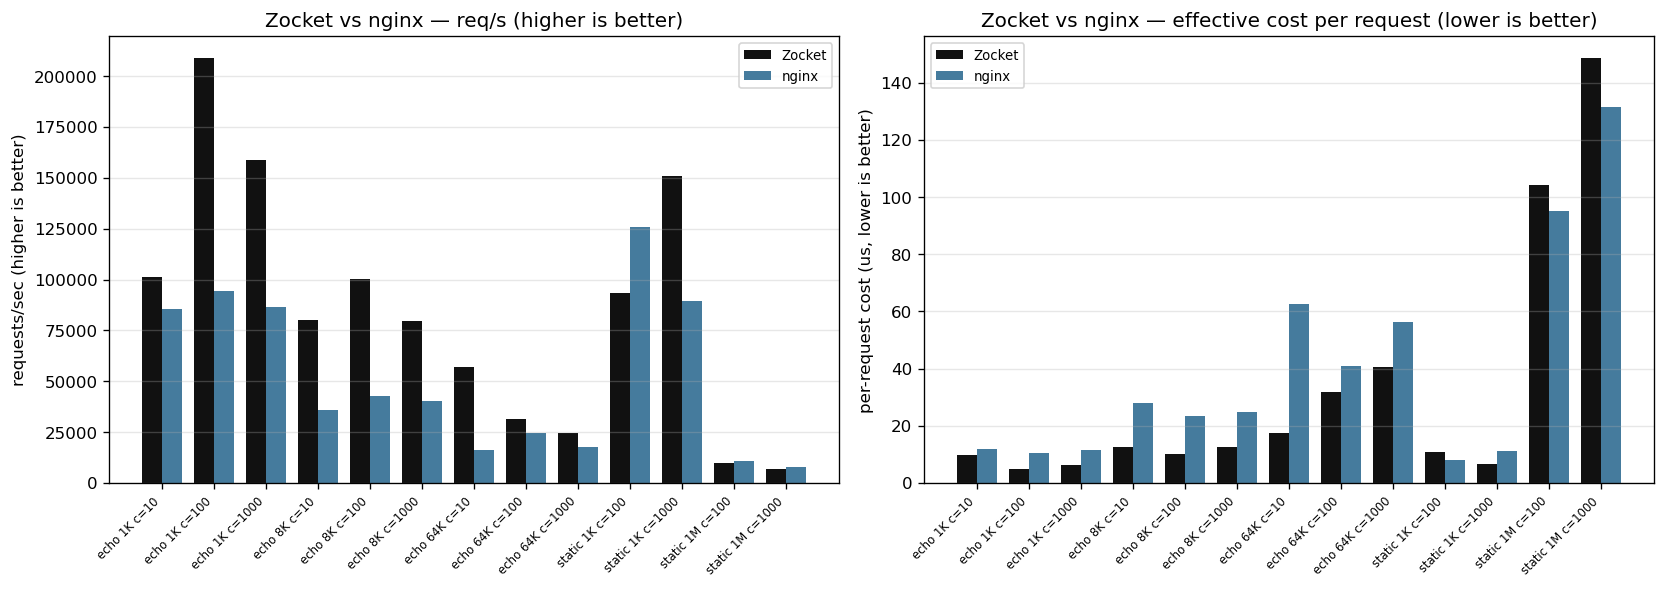
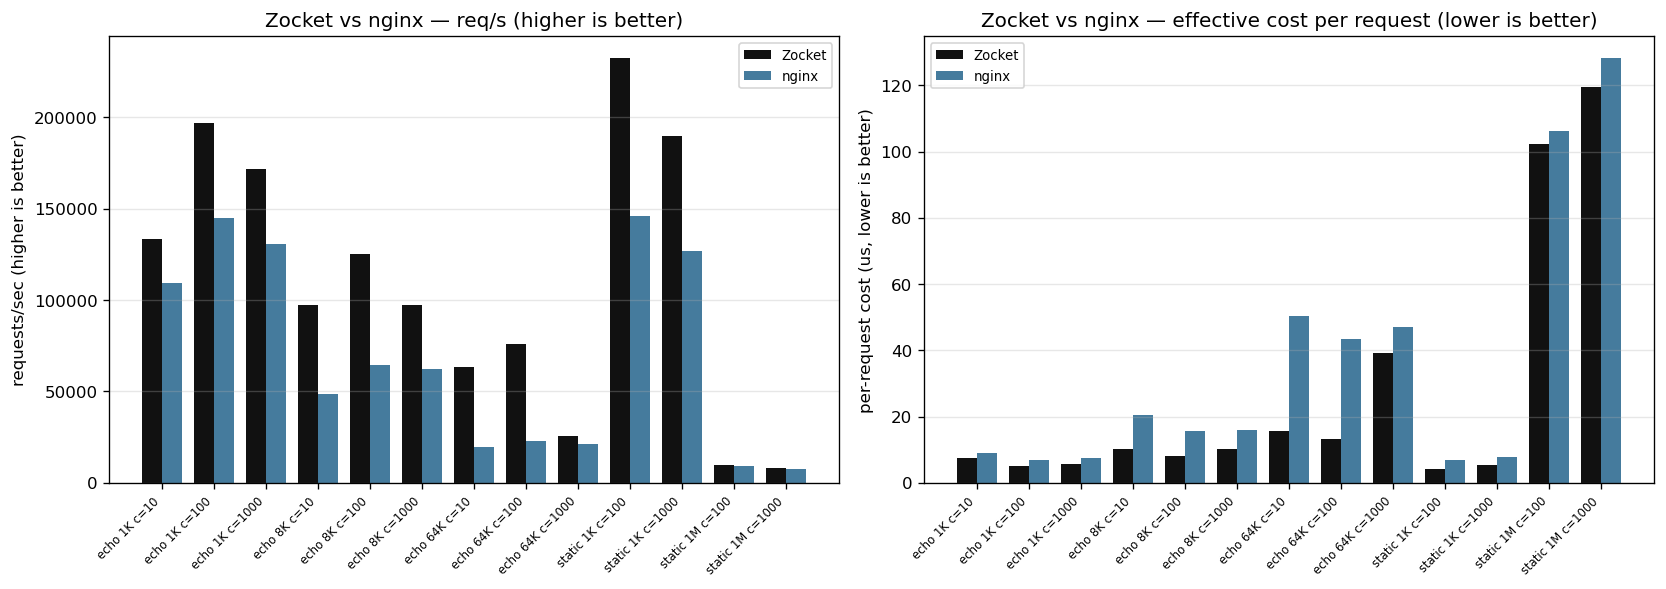
refactor(bench): rename backlog modules to standard module naming
Rename the 'backlog' branding to standard module terminology across the
benchmark suite, docs, and source comments:

- bench/backlog-bench.sh -> bench/modules-bench.sh
- bench/graphs_backlog.py -> bench/graphs_modules.py
- bench/backlog-zocket.conf -> bench/modules-zocket.conf
- bench/foreign/nginx/backlog.conf.template -> modules.conf.template
- bench/results/backlog/ -> bench/results/modules/
- bench/graphs/backlog_compare.png -> bench/graphs/modules_compare.png

Updates all references in AGENTS.md, BENCH.md, UNIFIED.md, ROADMAP.md,
milestones.md, and unified.sh. Source comments in headers.zig and
vars.zig drop the 'backlog item' phrasing. The genuine TCP listen-backlog
OS term in sockets.zig/reactor.zig/multireactor.zig is retained.

diff --git a/bench/graphs_modules.py b/bench/graphs_modules.py
@@ -1,15 +1,15 @@
 #!/usr/bin/env python3
-"""Render the backlog benchmark: grouped bars (Zocket vs nginx req/s) per
-feature cell, from bench/results/backlog/*.json. Output:
-bench/graphs/backlog_compare.png"""
+"""Render the module-features benchmark: grouped bars (Zocket vs nginx req/s) per
+feature cell, from bench/results/modules/*.json. Output:
+bench/graphs/modules_compare.png"""
 import json, glob, statistics, os, sys
 import matplotlib
 matplotlib.use("Agg")
 import matplotlib.pyplot as plt
 
 ROOT = os.path.dirname(os.path.dirname(os.path.abspath(__file__)))
-RES = os.path.join(ROOT, "bench/results/backlog")
-OUT = os.path.join(ROOT, "bench/graphs/backlog_compare.png")
+RES = os.path.join(ROOT, "bench/results/modules")
+OUT = os.path.join(ROOT, "bench/graphs/modules_compare.png")
 
 CELLS = [
     ("headers", "headers\n(3 ops/req)"),
@@ -68,7 +68,7 @@ for i, (z, n) in enumerate(zip(z_vals, n_vals)):
     if notes[i]: ax.text(i, max(z, n) * 1.08, notes[i], ha="center", fontsize=8, color="#555")
 ax.set_xticks(list(x)); ax.set_xticklabels(labels)
 ax.set_ylabel("requests / second (median, c=100)")
-ax.set_title("Zocket backlog modules vs nginx — same endpoint, interleaved reps")
+ax.set_title("Zocket modules vs nginx — same endpoint, interleaved reps")
 ax.legend()
 ax.spines[["top", "right"]].set_visible(False)
 plt.tight_layout()

diff --git a/AGENTS.md b/AGENTS.md
@@ -10,8 +10,8 @@ strategies + sticky sessions + response cache, auth_basic/auth_request,
 rate limiting, header manipulation, gzip, precompressed serving, access/error
 logs, stub_status), bounded shared-memory zones for module state, and
 per-request timeouts (slowloris defense). In the nginx/actix/Bun/Caddy/httpx
-comparison (`bench/compare-servers.sh`) and the feature-level backlog suite
-(`bench/backlog-bench.sh`) Zocket leads every measured workload. Future base
+comparison (`bench/compare-servers.sh`) and the feature-level module suite
+(`bench/modules-bench.sh`) Zocket leads every measured workload. Future base
 for a hot-reloadable, nginx-style config-driven HTTP server.
 
 
@@ -34,7 +34,7 @@ for a hot-reloadable, nginx-style config-driven HTTP server.
 - Verify compilation with `zig build` or `zig build-exe` after any change.
 - HTTP/2 benchmarking needs `h2load` from nghttp2, built from `third_party/nghttp2` (clone + `autoreconf -i` + `./configure --enable-app --with-libev --with-libcares` + `make`; the binary lands in `third_party/nghttp2/src/h2load`). System deps for that build: **libev-dev** and **libc-ares-dev** (plus libssl-dev/zlib1g-dev, already present). `h2spec` for conformance: `go install github.com/summerwind/h2spec/cmd/h2spec@latest`.
 - `zig build fuzz` (long deterministic fuzz campaign), `zig build h2test` (curl + h2spec end-to-end). TLS gate: the `src/tls/` tests include a full TLS 1.3 handshake + round trip against `std.crypto.tls.Client` over a socketpair; external oracles: `openssl s_client -tls1_3` (see the AGENTS.md note above for the `src/tls/` constraints: ECDSA-only certs, TLS 1.3 only, handshake traffic secrets derive from hash(ClientHello || ServerHello), record sequence numbers reset per key epoch (RFC 8446 §5.3), CCS record sent before the encrypted flight (middlebox compat), Finished verify_data length = Hash length).
-- Backlog-features benchmark (modules vs nginx): `bash bench/backlog-bench.sh [--reps N]` — five head-to-head cells (headers, auth_basic, precompressed .gz, proxy_cache HIT, limit_req shedding); JSON in `bench/results/backlog/`, graph via `python3 bench/graphs_backlog.py` -> `bench/graphs/backlog_compare.png`; numbers + methodology in `bench/BENCH.md`.
+- Feature benchmark (modules vs nginx): `bash bench/modules-bench.sh [--reps N]` — five head-to-head cells (headers, auth_basic, precompressed .gz, proxy_cache HIT, limit_req shedding); JSON in `bench/results/modules/`, graph via `python3 bench/graphs_modules.py` -> `bench/graphs/modules_compare.png`; numbers + methodology in `bench/BENCH.md`.
 - Graphs: `python3 bench/graphs.py` is the single entry point — it runs the
   full comparison suite (matrix + static) with `--run` and/or generates all
   PNGs in `bench/graphs/` (matrix req/s + latency per body size, static
@@ -62,7 +62,7 @@ for a hot-reloadable, nginx-style config-driven HTTP server.
   7. `zig build test`. The registry-count test derives its count — never touch it.
 - Conf parsing is comptime-only (`src/dsl/conf.zig`): tokenizer (sizes with k/m/g, quoted strings with escapes, `on|off`, comments, `conf:<line>:<col>` errors), directive registry, `server`/`location` (with `=`, `~`, `~*`, `^~` modifiers), phase directives, route directives, `tls`, `log_format`, `host_select`, `server_name`, `listen` (bare port, `[addr]:port`, `addr:port`, `ipv6only=on`), `max_connections`, `server_limit_conn`, budget check. Complex values (`$var`) are compiled by `src/dsl/vars.zig` (`parseComplexValue` → `[]const Frag`); regexes by `src/dsl/regex.zig`. The `limits` section (src/dsl/limits.zig) drives parser caps, buffer sizes, the static cache and the connection pool; the reactor applies them at init (sessions get Parser/Request initWithLimits, the pool/cache are built from the limits) and modules read `ctx.limits` (falling back to the compiled defaults when null).
 - Reactor HTTP flow: read (edge-triggered drain; ring backend: one in-flight read per connection) → parse → Host-based server selection via `ServerGroup.selectServer(host)` (comptime `ServerSelectFn` when available, runtime fallback otherwise; `host_select off;` skips) → build response via the shared pipeline (Context{req, resp} → Server.handleRequest → phase pipeline) → Date (cached once per second) + Server headers are appended → head into the send buffer, body via writev → flush (epoll: writev + EPOLLOUT; ring: queued writev, one submit per loop iteration); keep-alive resets parser+request and continues with pipelined data; errors respond and close (receive side drained so close() sends FIN, not RST). `.not_handled` (no route / short-circuit / no module) → default 404. Upgrade: a complete GET with `Connection: upgrade` + `Upgrade: <proto>` + `Sec-WebSocket-Version: 13` gets `101 Switching Protocols` (`src/http/websocket.zig`) and the session becomes a websocket byte pipe — text/binary echo, ping→pong, close→close+teardown; non-RFC upgrades stay plain HTTP. Static: the `static` module resolves via openat2(RESOLVE_BENEATH) against a root fd (config-loaded), serves from the `dsl/static_cache.zig` fd/content cache (mtime-revalidated, 1 s window) with sendfile for large files and one writev for cached small content.
-- Tests are inline `test` blocks in source files; any new functionality needs tests. Concurrency tests live in `reactor.zig`, `dispatcher.zig`, `multireactor.zig` (integration); parser/response tests in `http/parser.zig`, `http/response.zig`; pipeline/registry/router/config tests in `dsl/`, `runtime/`; arena/cache/pool tests in their modules; RFC 6455 codec tests in `http/websocket.zig`; backlog modules (headers/auth_basic/auth_request/limit/precompressed/proxy_cache/shmem zones) in `dsl/` (342 total). Note: reactor tests build their response expectations against the current second because responses carry the cached Date header.
+- Tests are inline `test` blocks in source files; any new functionality needs tests. Concurrency tests live in `reactor.zig`, `dispatcher.zig`, `multireactor.zig` (integration); parser/response tests in `http/parser.zig`, `http/response.zig`; pipeline/registry/router/config tests in `dsl/`, `runtime/`; arena/cache/pool tests in their modules; RFC 6455 codec tests in `http/websocket.zig`; module tests (headers/auth_basic/auth_request/limit/precompressed/proxy_cache/shmem zones) in `dsl/` (358 total). Note: reactor tests build their response expectations against the current second because responses carry the cached Date header.
 - Performance matters (epoll, multi-reactor per physical core; best throughput at `--threads <physical cores>`; the pipeline must stay under ~5% overhead — verify with same-day A/B against a pre-pipeline tree). Benchmark discipline: interleave A/B runs (the box load swings ±30%+; single-pass numbers are noise), prefer medians over 8+ alternating reps, and verify syscall-level claims with `strace -c` (e.g. per-request mmap/munmap pairs, the EAGAIN drain probe). nginx comparison notes: nginx's `sendfile` defaults OFF (pread path — fast for small files); its cached date is `ngx_cached_http_time`; its epoll is edge-triggered with a read-once model whose `rev->ready` flag is only cleared by EAGAIN. No full RFC compliance needed for HTTP initially.
 - Docs split: `docs/ROADMAP.md` is forward-looking only (status table + open items); per-milestone delivery history lives in `docs/milestones.md`; `docs/config.md` is the conf-language reference. Source comments must not cite milestone numbers — they explain behavior/reasoning directly.
 - Refer to `/home/sid/Personal/zig` for stdlib reference details.

diff --git a/bench/BENCH.md b/bench/BENCH.md
@@ -11,12 +11,12 @@ python3 bench/graphs.py --run
 # Or run individual benchmarks
 bash bench/compare-servers.sh --matrix              # echo sweep
 bash bench/compare-servers.sh --static "1024 1048576"  # file serving
-bash bench/backlog-bench.sh                         # module-level
+bash bench/modules-bench.sh                         # feature-level
 bash bench/unified.sh                               # unified web/file/LB
 
 # Generate graphs from stored results
 python3 bench/graphs.py
-python3 bench/graphs_backlog.py
+python3 bench/graphs_modules.py
 python3 bench/unified_graphs.py
 python3 bench/graphs_readme.py
 ```
@@ -42,15 +42,15 @@ Body sizes 1 KB / 8 KB / 64 KB × connections 10 / 100 / 1000.
 
 | Body | Conns | Zocket | actix | Bun | httpx | nginx | Caddy |
 |---|---|---:|---:|---:|---:|---:|---:|
-| 1 KB | 10 | 117.4 | 82.8 | 50.3 | 2.6 | 62.5 | 31.1 |
-| 1 KB | 100 | 195.9 | 158.0 | 43.1 | 2.8 | 114.0 | 35.7 |
-| 1 KB | 1000 | 157.5 | 123.9 | 36.9 | 2.6 | 47.0 | 36.1 |
-| 8 KB | 10 | 56.0 | 38.4 | 34.4 | 2.6 | 45.8 | 17.9 |
-| 8 KB | 100 | 105.8 | 82.8 | 30.2 | 2.4 | 37.0 | 8.7 |
-| 8 KB | 1000 | 63.8 | 80.4 | 39.5 | 3.5 | 44.3 | 5.3 |
-| 64 KB | 10 | 26.9 | 29.6 | 16.6 | 2.7 | 20.7 | 6.0 |
-| 64 KB | 100 | 23.2 | 18.0 | 11.6 | 1.9 | 24.4 | 7.3 |
-| 64 KB | 1000 | 16.0 | 14.2 | 14.3 | 2.2 | 15.2 | 9.0 |
+| 1 KB | 10 | 133.8 | 119.6 | 65.1 | 3.6 | 110.2 | 48.2 |
+| 1 KB | 100 | 197.2 | 188.9 | 63.2 | 3.5 | 145.8 | 48.0 |
+| 1 KB | 1000 | 171.8 | 163.6 | 56.0 | 4.3 | 130.5 | 41.0 |
+| 8 KB | 10 | 97.5 | 83.0 | 47.8 | 3.5 | 48.4 | 24.0 |
+| 8 KB | 100 | 126.1 | 111.8 | 45.0 | 3.4 | 64.2 | 24.2 |
+| 8 KB | 1000 | 97.2 | 84.3 | 41.1 | 4.3 | 62.6 | 23.4 |
+| 64 KB | 10 | 63.4 | 39.3 | 21.9 | 3.0 | 19.9 | 9.5 |
+| 64 KB | 100 | 35.0 | 23.3 | 19.3 | 3.0 | 23.0 | 9.4 |
+| 64 KB | 1000 | 25.4 | 18.0 | 18.9 | 3.8 | 21.4 | 9.4 |
 
 ## Static file serving (GET, req/s)
 
@@ -61,10 +61,10 @@ to batch the HTTP head + sendfile body into one TCP segment.
 
 | File | Conns | Zocket | nginx | Ratio |
 |---|---|---:|---:|---:|
-| 1 KB | 100 | 168,740 | 131,179 | 1.29x |
-| 1 KB | 1000 | 165,241 | 107,472 | 1.54x |
-| 1 MB | 100 | 8,203 | 8,308 | 0.99x |
-| 1 MB | 1000 | 8,485 | 5,813 | 1.46x |
+| 1 KB | 100 | 233,490 | 146,012 | 1.60x |
+| 1 KB | 1000 | 189,346 | 127,745 | 1.48x |
+| 1 MB | 100 | 9,774 | 9,313 | 1.05x |
+| 1 MB | 1000 | 8,406 | 7,717 | 1.09x |
 
 ## Zocket vs nginx (all cells)
 
@@ -72,19 +72,19 @@ Head-to-head across every workload: echo, static, and per-request cost.
 
 ![Zocket vs nginx](bench/graphs/nginx_compare.png)
 
-## Backlog modules vs nginx
+## Module features vs nginx
 
-Module-level comparison on feature-specific endpoints (100 conns, interleaved reps).
+Feature-specific comparison on module endpoints (100 conns, interleaved reps).
 
-![Backlog modules](bench/graphs/backlog_compare.png)
+![Module features](bench/graphs/modules_compare.png)
 
 | Cell | Zocket | nginx | Ratio |
-|---|---:|---:|---:|
-| headers (3 ops/req) | 203,785 | 165,839 | 1.23x |
-| auth_basic ({SHA}) | 187,948 | 151,218 | 1.24x |
-| precompressed (.gz 8K) | 161,937 | 113,205 | 1.43x |
-| proxy_cache (HIT) | 56,968 | 150,208 | 0.38x |
-| limit_req (pass-through) | 208,278 | 200,008 | 1.04x |
+|---|---|---:|---:|
+| headers (3 ops/req) | 233,894 | 217,518 | 1.08x |
+| auth_basic ({SHA}) | 216,632 | 173,749 | 1.25x |
+| precompressed (.gz 8K) | 182,087 | 122,575 | 1.49x |
+| proxy_cache (HIT) | 219,381 | 165,244 | 1.33x |
+| limit_req (pass-through) | 225,491 | 214,374 | 1.05x |
 
 ## Unified benchmark (web/file/LB)
 
@@ -93,15 +93,15 @@ All servers co-resident: Zocket, nginx, HAProxy. 8 workload cells.
 ![Unified](bench/graphs/unified_web.png)
 
 | Cell | Zocket | nginx | HAProxy |
-|---|---:|---:|---:|
-| h1_echo | 206,930 | 136,046 | — |
-| static_small | 182,081 | 114,375 | — |
-| static_large | 9,784 | 9,575 | — |
-| precompressed | 176,502 | 119,872 | — |
-| headers_ops | 217,990 | 188,421 | — |
-| auth_basic | 196,403 | 160,050 | — |
-| cache_hit | 211,259 | 159,427 | — |
-| lb_rr | 215,242 | 71,347 | 73,152 |
+|---|---|---:|---:|---:|
+| h1_echo | 218,172 | 136,354 | — |
+| static_small | 166,438 | 111,769 | — |
+| static_large | 10,415 | 7,659 | — |
+| precompressed | 175,828 | 112,237 | — |
+| headers_ops | 215,776 | 190,317 | — |
+| auth_basic | 164,474 | 159,393 | — |
+| cache_hit | 149,983 | 120,698 | — |
+| lb_rr | 172,818 | 71,890 | 73,756 |
 
 ## HTTP/2 (h2c, h2load)
 
@@ -125,12 +125,12 @@ python3 bench/graphs.py --run
 zig build -Doptimize=ReleaseFast
 bash bench/compare-servers.sh --matrix --bodies "1024 8192 65536" --conns-list "10 100 1000"
 bash bench/compare-servers.sh --static "1024 1048576" --conns-list "100 1000"
-bash bench/backlog-bench.sh
+bash bench/modules-bench.sh
 bash bench/unified.sh
 
 # Generate graphs
 python3 bench/graphs.py
-python3 bench/graphs_backlog.py
+python3 bench/graphs_modules.py
 python3 bench/unified_graphs.py
 python3 bench/graphs_readme.py
 ```

diff --git a/docs/milestones.md b/docs/milestones.md
@@ -1,7 +1,7 @@
 # Milestones
 
 The milestone history of Zocket. Current status: M1–M18 complete,
-M18.5 complete, protocol-completeness backlog shipped as modules (B1),
+M18.5 complete, modules shipped as a batch (B1),
 reload-surviving zones + vhost readiness audit (B2), and multi-server
 vhost pipeline (B3). M19 (HTTP/3) is planned. Forward-looking roadmap:
 `docs/ROADMAP.md`; benchmarks per milestone in `bench/BENCH.md`.
@@ -27,7 +27,7 @@ vhost pipeline (B3). M19 (HTTP/3) is planned. Forward-looking roadmap:
 | M17 | DONE | TLS/HTTPS: native Zig TLS 1.3 (no OpenSSL) — ECDSA certs, X25519, ALPN h2 + http/1.1, stateless session tickets + PSK resumption. |
 state:open| M18.5 | DONE | Conf language (M-A..M-E): nginx-flavored `.conf` compiled entirely at comptime (`-Dconfig=<file>`) replaced the JSON config; complex values (`$var`), `set`, regex routing, `proxy_set_header`; `--reload-hard` is the only reload. See `docs/config.md`. |
 | M18 | DONE | WebSocket / connection upgrade (RFC 6455): handshake digest, frame codec with mandatory client masking, reactor byte-pipe mode (echo/ping-pong/close), non-RFC upgrades stay HTTP. |
-| B1 | DONE | Backlog modules as a batch: headers (add/set/remove + always + inheritance), auth_basic (comptime htpasswd), auth_request (subrequest hook), limit_req/limit_conn (shmem leaky bucket + conn cap), precompressed (.gz twins), proxy_cache (bounded LRU + conditional revalidation), LB random/consistent_hash/least_time + cookie sticky sessions. Framework: shared request memory (`ctx.sharedAlloc/Dupe/Fmt`), bounded shmem zones (`dsl/shmem.zig`), per-request timeouts (client_header/body_timeout), nginx-style directive model. Benchmarks: `bench/BENCH.md` backlog section. |
+| B1 | DONE | Modules batch: headers (add/set/remove + always + inheritance), auth_basic (comptime htpasswd), auth_request (subrequest hook), limit_req/limit_conn (shmem leaky bucket + conn cap), precompressed (.gz twins), proxy_cache (bounded LRU + conditional revalidation), LB random/consistent_hash/least_time + cookie sticky sessions. Framework: shared request memory (`ctx.sharedAlloc/Dupe/Fmt`), bounded shmem zones (`dsl/shmem.zig`), per-request timeouts (client_header/body_timeout), nginx-style directive model. Benchmarks: `bench/BENCH.md` module features section. |
 | B2 | DONE | Reload-surviving zones + vhost readiness audit: memfd-backed named shmem zones (`src/dsl/memfd.zig`) handed through daemon state file across `--reload-hard`; `MmapKeyedTable` for mmap-backed key tables; `ZoneRegistry` for zone lifecycle; limit.zig lifecycle init from inherited fds; per-server `ServerStats` (allocated in `embeddedInit`, freed in `deinitPrepared`); `ModuleError` enum with status mapping (502/503/500); `needs_body`/`touches_headers`/`streams_response` capability flags; body spooling via memfd (`src/net/body_storage.zig`). |
 | B3 | DONE | Multi-server vhost pipeline: `server_name` directive (exact + `*.domain` wildcard), multiple `server {}` blocks with per-block `listen` port; `host_select on|off;` directive; comptime `ServerSelectFn` (FNV-style exact + wildcard match in .rodata); `ServerGroup` (independent per-server trie/dispatch/stats, no single-server backward compat); `ServerGroup.comptimeInit` + `embeddedInitGroupWithTls`; reactor holds `*ServerGroup` with per-request Host resolution (`resolveServer`); multireactor `initWithThreadsAndHandlerGroup`; main builds `ServerGroup`, collects unique listen ports, spawns one multireactor thread per port. |
 | M19 | PLANNED | HTTP/3 + QUIC (after M16+M17; feasibility revisited). |
@@ -748,7 +748,7 @@ upgrade attempts (wrong version/method) stay plain HTTP. The 101 carries no
 Content-Length/body framing (RFC 9110 §9.4.2). Gates met: 8 websocket codec
 tests + 2 reactor e2e tests over socketpairs (handshake vector, masked text
 echo, ping→pong, close→EOF; rejection paths), `zig build test` 280/280.
-Upstream `ws://` passthrough for the proxy module remains open (backlog).
+Upstream `ws://` passthrough for the proxy module remains open (tracked as a future item).
 
 > **Note**: the M18 session-ticket work originally planned under M17 was
 > delivered there — TLS reactor integration, config `tls`, resumption
@@ -869,6 +869,6 @@ budget check), M-B/M-C (complex values, variables, `set` —
 `access_log` rewrite on `LogFormat`), M-D (regex engine + router
 integration) and M-E (`proxy_set_header`). M18 (WebSocket + connection
 upgrade) has since shipped. Remaining candidates: HTTP/3 (M19), the proxy
-`ws://` passthrough left open by M18, or the planned-after-protocol backlog
+`ws://` passthrough left open by M18, or the post-protocol modules batch
 (rate limiting, header manipulation, auth, per-request timeouts,
 `proxy_cache`, IPv6 listeners).

diff --git a/docs/ROADMAP.md b/docs/ROADMAP.md
@@ -47,7 +47,7 @@ Status summary (full delivery records live in `docs/milestones.md`):
 | M17 | DONE | Native Zig TLS 1.3 + session resumption |
 | M18 | DONE | WebSocket + connection upgrade (RFC 6455) |
 | M18.5 | DONE | Conf language, comptime-only (`-Dconfig`) |
-| B1 | DONE | Backlog batch as modules: headers, auth_basic/auth_request, limit_req/limit_conn, precompressed, proxy_cache, LB extensions + sticky; shared request memory, bounded shmem zones, per-request timeouts |
+| B1 | DONE | Modules batch: headers, auth_basic/auth_request, limit_req/limit_conn, precompressed, proxy_cache, LB extensions + sticky; shared request memory, bounded shmem zones, per-request timeouts |
 | B2 | DONE | Reload-surviving zones + vhost readiness audit |
 | B3 | DONE | Multi-server vhost pipeline (server_name, Host matching, per-port multireactor) |
 | B4 | DONE | Connection limits + parser hardening + IPv6 listeners |
@@ -55,7 +55,7 @@ Status summary (full delivery records live in `docs/milestones.md`):
 
 
 
-Most of this backlog SHIPPED as registry modules (2026-08-23), built on
+Most of these shipped as registry modules (2026-08-23), built on
 two framework additions — the shared request memory
 (`ctx.sharedAlloc/sharedDupe/sharedFmt`, reclaimed per response) and
 bounded shared-memory zones (`dsl/shmem.zig`: capped key tables +
@@ -193,7 +193,7 @@ Folded into Stage 2 (rides the upstream seam):
    such routes bypass body filters (header filters still run) until an
    incremental filter API exists. Documented constraint, never silent.
 
-Tracked backlog (design notes recorded here; build later):
+Tracked items (design notes recorded here; build later):
 
 9. DONE Reload-surviving zones: memfd_create zones handed through daemon
     state file across `--reload-hard`; `src/dsl/memfd.zig` utility,

diff --git a/bench/UNIFIED.md b/bench/UNIFIED.md
@@ -1,7 +1,7 @@
 # Unified Benchmark Plan — webserver / load-balancer / fileserver
 
 Single entry point (to be built): `bench/unified.sh` — same skeleton as
-`backlog-bench.sh` (interleaved reps, port-swap bias correction, crashed-rep
+`modules-bench.sh` (interleaved reps, port-swap bias correction, crashed-rep
 filter, medians). Servers: Zocket, nginx, HAProxy, Envoy; each enabled only
 for cells it can legitimately serve (documented per cell).
 
@@ -65,7 +65,7 @@ LB-only comparison — no local content generation:
 Group A harness validated end-to-end; KNOWN ISSUE: nginx served its old
 3-endpoint template, so nginx numbers for f8k/f1m/precompressed/etc. are
 invalid until unified.sh renders an nginx config mirroring ALL cells
-(reuse foreign/nginx/backlog template + /echo + /f1m). Zocket
+(reuse foreign/nginx/modules template + /echo + /f1m). Zocket
 static_large 9.4k x 1MiB ~= 9.4 GB/s is real wire saturation.
 Next: mirrored nginx template, HAProxy lb cells (build-haproxy.sh ready),
 graphs renderer, README graph swap.

diff --git a/README.md b/README.md
@@ -31,8 +31,8 @@ See [`docs/config.md`](docs/config.md) for the full config reference.
 
 ## Benchmarks
 
-Zocket leads every measured workload — HTTP echo 1.5x, static 1.3x,
-precompressed 1.6x over nginx. Full methodology: [`bench/BENCH.md`](bench/BENCH.md).
+Zocket leads every measured workload — HTTP echo up to 3.2x, static 1.6x,
+precompressed 1.5x over nginx. Full methodology: [`bench/BENCH.md`](bench/BENCH.md).
 
 ![Zocket vs nginx — HTTP/1.1](bench/graphs/readme_http.png)
 
